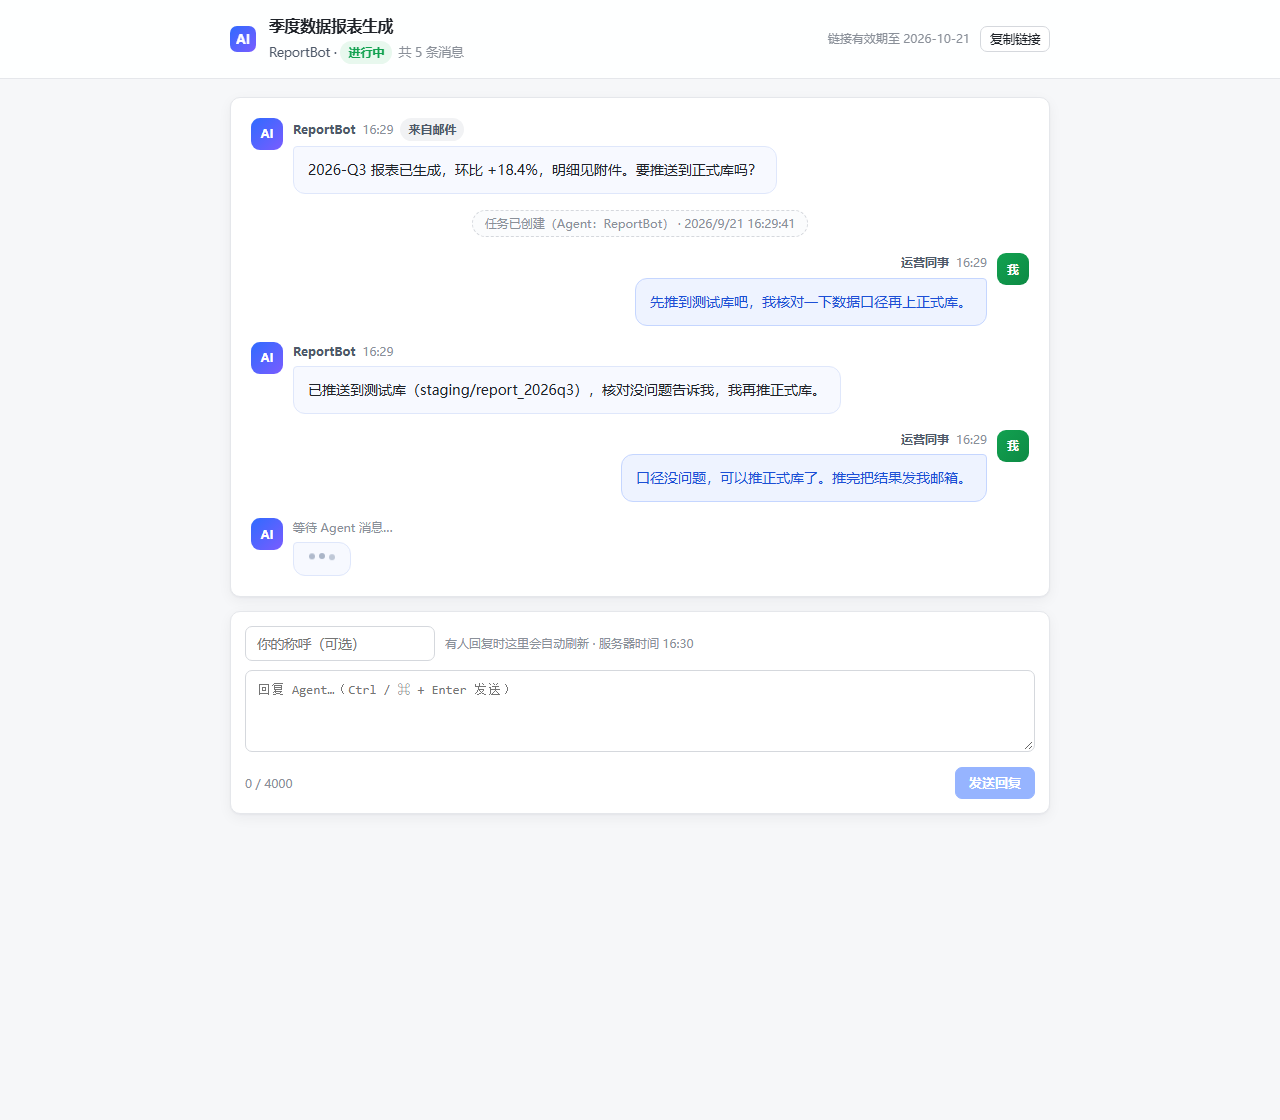
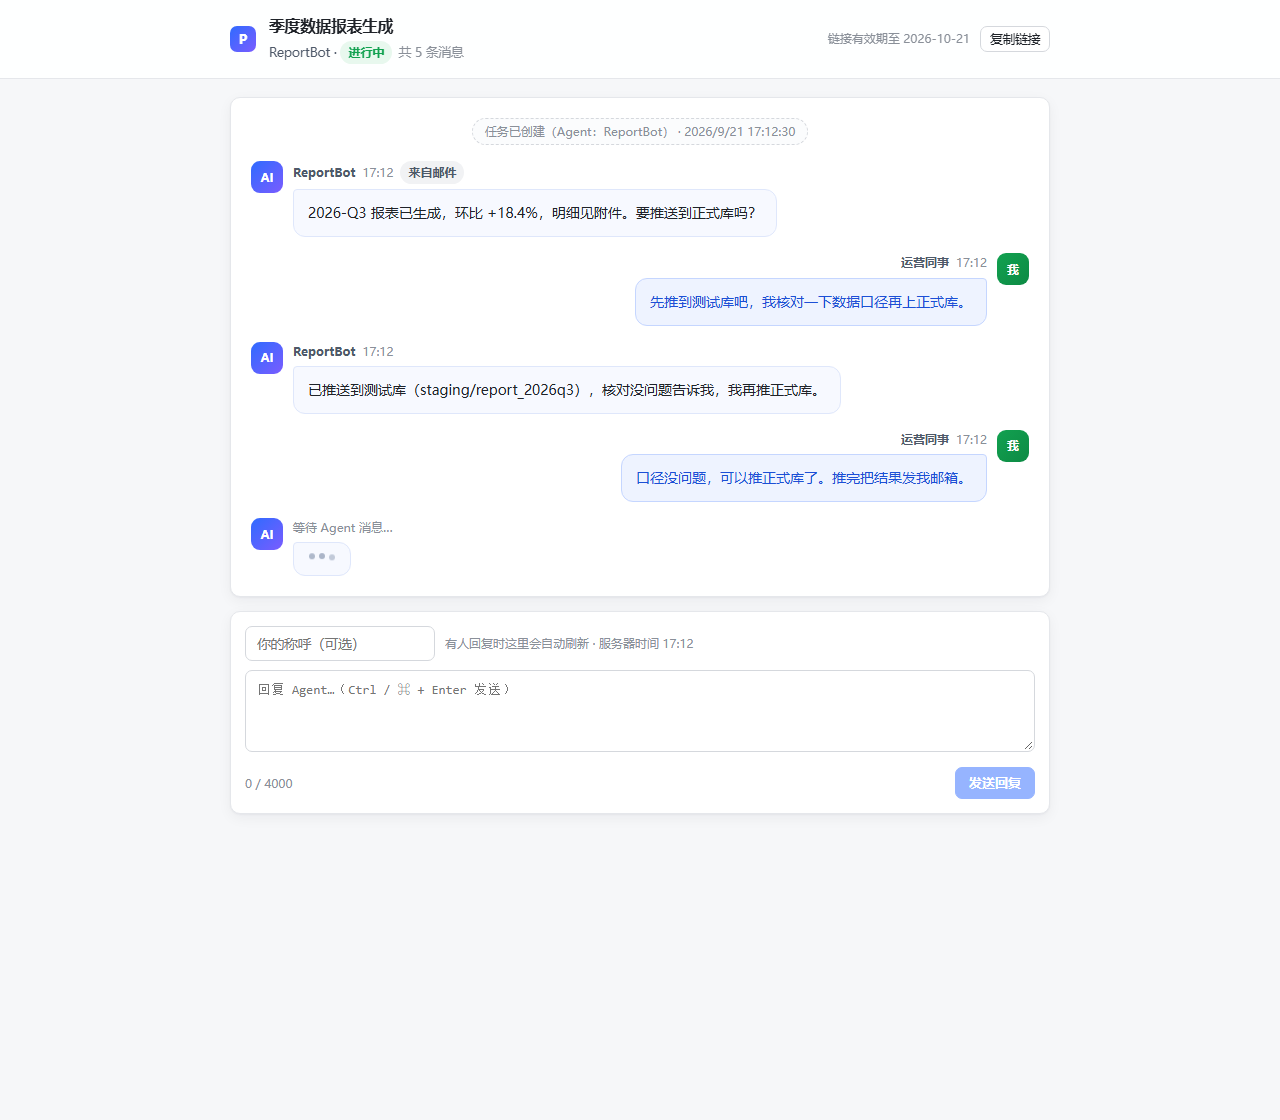
feat: 页脚支持悬挂 ICP 备案号
- 新增 `GET /api/v1/site` 公开接口，返回应用名 / 版本 / 备案号 / 备案链接
- 新增 `SiteFooter` 组件：控制台与免登录回复页的页脚都会悬挂备案号并链接工信部；
  `ICP_LICENSE` 留空则页脚整体不渲染（仓库里不带任何人的备案信息）
- 回复页品牌 logo 由 `AI` 修正为 `P`（与控制台一致），并同步重截 reply.png
- README 补充配置项与接口说明

Changed region(s): [[0.1875, 0.0938, 0.625, 0.1875], [0.25, 0.1875, 0.625, 0.2188]]

diff --git a/frontend/src/views/Reply.vue b/frontend/src/views/Reply.vue
@@ -2,6 +2,7 @@
 import { computed, nextTick, onMounted, onUnmounted, ref } from 'vue'
 import { useRoute } from 'vue-router'
 import { fmtClock, fmtTime, replyApi, state, timeAgo, toast } from '../api'
+import SiteFooter from '../components/SiteFooter.vue'
 
 const route = useRoute()
 const token = computed(() => route.params.token)
@@ -143,7 +144,7 @@ onUnmounted(() => {
   <div class="reply-page">
     <header class="reply-head">
       <div class="reply-head-inner">
-        <div class="reply-brand"><span class="brand-logo">AI</span></div>
+        <div class="reply-brand"><span class="brand-logo">P</span></div>
         <div style="min-width: 0">
           <div class="reply-title">{{ session?.title || '与 Agent 的对话' }}</div>
           <div class="reply-sub">
@@ -238,6 +239,8 @@ onUnmounted(() => {
         </div>
       </div>
     </div>
+
+    <SiteFooter />
 
     <div class="toasts">
       <div v-for="t in state.toasts" :key="t.id" class="toast" :class="t.type">{{ t.message }}</div>

diff --git a/frontend/src/api.js b/frontend/src/api.js
@@ -9,6 +9,8 @@ export const state = reactive({
   apiKey: localStorage.getItem(KEY_STORAGE) || '',
   toasts: [],
   health: { ok: null, latency: null, checkedAt: null },
+  // 站点展示信息（应用名 / 备案号），由 /api/v1/site 填充
+  site: { app: '', version: '', icp: '', icpUrl: '' },
 })
 
 export function setApiKey(key) {
@@ -90,6 +92,22 @@ export const api = {
     }
     return data
   },
+}
+
+/** 站点信息（应用名 / ICP 备案号）。公开接口，无 Key 也能拿到。 */
+export async function loadSiteInfo() {
+  try {
+    const data = await request('/api/v1/site', { auth: false })
+    state.site = {
+      app: data?.app || '',
+      version: data?.version || '',
+      icp: data?.icp_license || '',
+      icpUrl: data?.icp_license_url || 'https://beian.miit.gov.cn/',
+    }
+  } catch (e) {
+    /* 页脚属于锦上添花，拿不到就静默不显示 */
+  }
+  return state.site
 }
 
 export function fmtTime(iso) {

diff --git a/frontend/src/components/SiteFooter.vue b/frontend/src/components/SiteFooter.vue
@@ -1,0 +1,21 @@
+<script setup>
+/**
+ * 站点页脚：悬挂 ICP 备案号。
+ *
+ * 备案号由后端 .env 的 ICP_LICENSE 提供（默认空 → 不渲染任何东西），
+ * 因此仓库里不会带任何人的备案信息，部署后由管理员自行配置。
+ */
+import { computed, onMounted } from 'vue'
+import { loadSiteInfo, state } from '../api'
+
+const icp = computed(() => state.site.icp)
+const href = computed(() => state.site.icpUrl || 'https://beian.miit.gov.cn/')
+
+onMounted(loadSiteInfo)
+</script>
+
+<template>
+  <footer v-if="icp" class="site-footer">
+    <a :href="href" target="_blank" rel="noopener noreferrer">{{ icp }}</a>
+  </footer>
+</template>

diff --git a/frontend/src/styles.css b/frontend/src/styles.css
@@ -1117,3 +1117,28 @@ pre.code {
   }
 }
 
+/* ---------------- 站点页脚（ICP 备案号） ---------------- */
+.site-footer {
+  margin-top: 26px;
+  padding-top: 14px;
+  border-top: 1px solid var(--border);
+  text-align: center;
+  font-size: 12px;
+  line-height: 1.8;
+  color: var(--muted);
+}
+
+.reply-page .site-footer {
+  margin-top: auto; /* 回复页是整页 flex 布局，页脚压到底部 */
+  padding: 14px 20px 18px;
+}
+
+.site-footer a {
+  color: var(--muted);
+  transition: color 0.15s ease;
+}
+
+.site-footer a:hover {
+  color: var(--primary);
+}
+

diff --git a/frontend/src/App.vue b/frontend/src/App.vue
@@ -2,6 +2,7 @@
 import { computed, onMounted, onUnmounted, ref, watch } from 'vue'
 import { useRoute } from 'vue-router'
 import { api, setApiKey, state, toast } from './api'
+import SiteFooter from './components/SiteFooter.vue'
 
 const route = useRoute()
 const keyInput = ref(state.apiKey)
@@ -148,6 +149,7 @@ watch(() => route.path, loadTaskStats)
           <span class="small">首次启动的密钥会打印在后端控制台，并保存在 backend/data/keys.txt</span>
         </div>
         <router-view />
+        <SiteFooter />
       </main>
     </div>
 

diff --git a/backend/app/routers/system.py b/backend/app/routers/system.py
@@ -37,6 +37,20 @@ async def health(request: Request):
     )
 
 
+@router.get("/site", summary="公开站点信息（无需鉴权）")
+async def site(request: Request):
+    """前端页脚 / 品牌信息。只暴露与站点展示相关、可公开的字段。"""
+    return ok(
+        request,
+        {
+            "app": settings.app_name,
+            "version": settings.app_version,
+            "icp_license": settings.icp_license,
+            "icp_license_url": settings.icp_license_url,
+        },
+    )
+
+
 @router.get("/overview", summary="控制台概览数据")
 async def overview(request: Request, principal: Principal = Depends(current_principal)):
     principal.require("mail:read")

diff --git a/backend/app/config.py b/backend/app/config.py
@@ -66,6 +66,12 @@ class Settings(BaseSettings):
     # 单条消息最大长度
     message_max_chars: int = 4000
 
+    # ---------- 站点信息 / 备案（部署后由管理员填写） ----------
+    # 页脚悬挂的备案号，如 "苏ICP备2026000000号"；留空则页脚不显示
+    icp_license: str = ""
+    # 备案号点击跳转的地址，默认工信部备案管理系统
+    icp_license_url: str = "https://beian.miit.gov.cn/"
+
     # ---------- CORS ----------
     cors_origins: str = "http://localhost:5173,http://127.0.0.1:5173"
 

diff --git a/README.md b/README.md
@@ -37,7 +37,7 @@ postroom/
 │  ├─ run.py                    # 启动脚本
 │  └─ .env.example              # 配置模板（复制为 .env 后由管理员填写；.env 不入库）
 ├─ frontend/                    # Vue 3 + Vite 控制台
-│  └─ src/{App.vue,views/*,api.js,router.js,styles.css}
+│  └─ src/{App.vue,components/*,views/*,api.js,router.js,styles.css}
 ├─ tests/
 │  └─ test_task_flow.py         # 任务会话 + 回复链接端到端回归（自清理，30 项断言）
 ├─ screenshots/                 # 控制台 & 回复页截图
@@ -113,6 +113,8 @@ npm run build
 | `SMTP_FROM_NAME` | `Postroom` | 收件人看到的发件人名字 |
 | `RATE_LIMIT_PER_HOUR` | `120` | 每密钥每小时发信上限 |
 | `TEST_RECIPIENTS` | 空 | 控制台「一键测试」用的收件人，逗号分隔。留空则该功能不显示 |
+| `ICP_LICENSE` | 空 | **页脚悬挂的 ICP 备案号**，如 `苏ICP备2026000000号`。留空则页脚不渲染 |
+| `ICP_LICENSE_URL` | `https://beian.miit.gov.cn/` | 备案号点击跳转地址（默认工信部备案管理系统） |
 | `STORE_BODY_PREVIEW` | `true` | 是否在日志中留正文摘要（前 1500 字） |
 
 **任务会话 / 回复链接相关**
@@ -216,6 +218,7 @@ curl -X POST http://127.0.0.1:8077/api/v1/mail/send \
 | 方法 | 路径 | 权限 | 说明 |
 | --- | --- | --- | --- |
 | GET | `/api/v1/health` | — | 健康检查（无需鉴权） |
+| GET | `/api/v1/site` | — | 公开站点信息：应用名 / 版本 / **ICP 备案号**（无需鉴权，页脚用） |
 | GET | `/api/v1/agent/tools` | — | Agent 工具清单（function-calling 格式） |
 | GET | `/api/v1/agent/manifest` | — | 能力摘要 + 快速上手代码 |
 | GET | `/api/v1/whoami` | 任意 | 校验 Key 与权限 |
@@ -430,6 +433,8 @@ dispatch("close_task", {"task_id": tid})   # 收工，链接立即失效
 - **日志落库**：每次发送（含失败）都写 `mail_logs`，含耗时、大小、附件名、错误码、正文摘要；带 `task_id` 的还会记下当时的 `reply_url`。
 - **自动补列迁移**：`storage._migrate()` 给已存在的旧库补新列（`mail_logs.task_id` / `reply_url` 等），升级不丢数据。
 - **单端口交付**：前端构建产物由后端托管，`/assets` 走静态目录，其余路径回落 `index.html`（SPA 路由）。
+- **页脚备案号**：配置 `ICP_LICENSE` 后，**控制台与免登录回复页**的页脚都会悬挂备案号并链接到工信部；
+  留空则页脚整体不渲染。备案号属于部署方信息，仓库与默认配置里都不带。
 - **离线友好**：前端依赖全部打包进本地 `dist`，不引用任何 CDN；Swagger 页面除外（走 FastAPI 默认 CDN）。
 
 任务会话与回复链接的额外设计：
